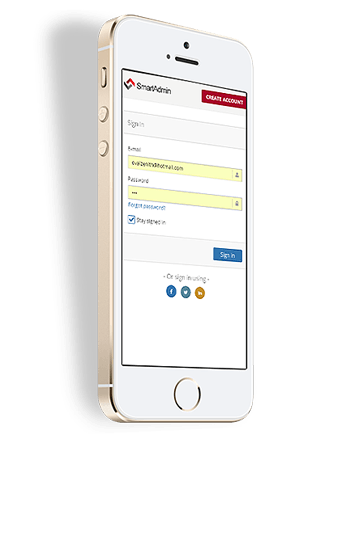
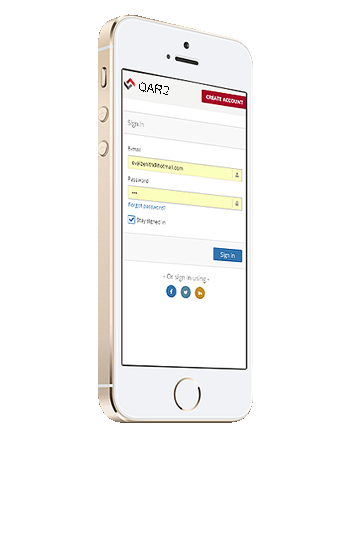
1/13
Images Swapped Qar2

Changed region(s): [[0.1153, 0.0298, 0.317, 0.7747], [0.3746, 0.149, 0.4899, 0.1788]]

diff --git a/index.html b/index.html
@@ -7,7 +7,7 @@
 		<meta name="description" content="">
 		<meta name="author" content="">
 
-		<title>QARTwo Landing</title>
+		<title>QAR2 Landing</title>
 
 		<!-- #Bootstrap Core CSS -->
 		<link type="text/css" href="css/bootstrap.min.css" rel="stylesheet">
@@ -22,7 +22,7 @@
 		<link type="text/css" href="css/nivo-lightbox-theme/default/default.css" rel="stylesheet">
 		<link type="text/css" href="css/animate.css" rel="stylesheet">
 
-		<!-- #QARTwo LANDING CSS -->
+		<!-- #QAR2 LANDING CSS -->
 		<link type="text/css" href="css/main.css" rel="stylesheet">
 		<link type="text/css" href="color/default.css" rel="stylesheet">
 
@@ -191,7 +191,7 @@
 									data-splitout="none"
 									data-elementdelay="0.1"
 									data-endelementdelay="0.1"
-									style="z-index: 5; max-width: auto; max-height: auto; white-space: nowrap;">Better!
+									style="z-index: 5; max-width: auto; max-height: auto; white-space: nowrap;">Anytime!
 								</div>
 
 								<!-- LAYER NR. 5 -->
@@ -218,7 +218,7 @@
 									data-splitout="none"
 									data-elementdelay="0.1"
 									data-endelementdelay="0.1"
-									style="z-index: 7; max-width: auto; max-height: auto; white-space: nowrap;">Now
+									style="z-index: 7; max-width: auto; max-height: auto; white-space: nowrap;">Optimize
 								</div>
 
 								<!-- LAYER NR. 7 -->
@@ -233,7 +233,7 @@
 									data-splitout="none"
 									data-elementdelay="0.1"
 									data-endelementdelay="0.1"
-									style="z-index: 8; max-width: auto; max-height: auto; white-space: nowrap;">Even
+									style="z-index: 8; max-width: auto; max-height: auto; white-space: nowrap;">Anywhere
 								</div>
 
 								<!-- LAYER NR. 8 -->
@@ -366,7 +366,7 @@
 									data-elementdelay="0.1"
 									data-endelementdelay="0.1"
 									data-endspeed="300"
-									style="z-index: 3; max-width: auto; max-height: auto; white-space: nowrap;">Effect
+									style="z-index: 3; max-width: auto; max-height: auto; white-space: nowrap;">FRAUD
 								</div>
 
 								<!-- LAYER NR. 3 -->
@@ -381,7 +381,7 @@
 									data-elementdelay="0.1"
 									data-endelementdelay="0.1"
 									data-endspeed="300"
-									style="z-index: 4; max-width: auto; max-height: auto; white-space: nowrap;">Rendering
+									style="z-index: 4; max-width: auto; max-height: auto; white-space: nowrap;">Eliminate
 								</div>
 
 								<!-- LAYER NR. 4 -->
@@ -396,7 +396,7 @@
 									data-elementdelay="0.1"
 									data-endelementdelay="0.1"
 									data-endspeed="300"
-									style="z-index: 5; max-width: auto; max-height: auto; white-space: nowrap;">Improved!
+									style="z-index: 5; max-width: auto; max-height: auto; white-space: nowrap;">Completely!
 								</div>
 
 
@@ -413,7 +413,7 @@
 								data-endelementdelay="0.1"
 								data-endspeed="300"
 								style="z-index: 6; max-width: auto; max-height: auto; white-space: nowrap;">
-									FASTER
+									Seemless Set-Up
 								</div>
 
 								<!-- LAYER NR. 6 -->
@@ -460,7 +460,7 @@
 								data-endelementdelay="0.1"
 								data-endspeed="300"
 								style="z-index: 9; max-width: auto; max-height: auto; white-space: nowrap;">
-									SMOOTHER
+									Immediate Results
 								</div>
 
 								<!-- LAYER NR. 9 -->
@@ -507,7 +507,7 @@
 								data-endelementdelay="0.1"
 								data-endspeed="300"
 								style="z-index: 12; max-width: auto; max-height: auto; white-space: nowrap;">
-									EASY TO USE
+									High Quality Reporting
 								</div>
 
 								<!-- LAYER NR. 12 -->
@@ -677,7 +677,7 @@
 							<div class="section-heading">
 								<h2>Our Deals</h2>
 								<p>
-									Lorem ipsum dolor sit amet, no nisl mentitum recusabo per, vim at blandit qualisque dissentiunt. Diam efficiantur conclusionemque ut has
+									Multiple pricing levels for every situation.  From a garage-business to Fortune 500, we have solutions for everyone.
 								</p>
 							</div>
 
@@ -921,7 +921,7 @@
 							<div class="section-heading">
 								<h2>The Power of QAR2</h2>
 								<p>
-									Lorem ipsum dolor sit amet, no nisl mentitum recusabo per, vim at blandit qualisque dissentiunt. Diam efficiantur conclusionemque ut has
+									Leading experts have joined to create an industry standard in fraud-busting technology.  Using machine learning allows QAR2 to identify and cancel out any fraud before it happens.  Our optimization performance tools go beyond the AdWords UI and allow for peace-of-mind when launching lead based campaigns on the Google Display Network.
 								</p>
 							</div>
 
@@ -938,9 +938,9 @@
 								<i class="fa fa-code fa-3x"></i>
 							</div>
 							<div class="service-desc">
-								<h5>Localization</h5>
+								<h5>SaaS</h5>
 								<p>
-									Vestibulum tincidunt enim in pharetra malesuada. Duis semper magna metus electram accommodare.
+									Never worry about implementing code on client websites.  Our service seemlessly blends into your accounts after a single button click.
 								</p>
 							</div>
 						</div>
@@ -955,7 +955,7 @@
 							<div class="service-desc">
 								<h5>Compact</h5>
 								<p>
-									Vestibulum tincidunt enim in pharetra malesuada. Duis semper magna metus electram accommodare.
+									With controls that start basic and scale with the most advanced accounts, you'll have more time to spend on strategy rather than minutia.
 								</p>
 							</div>
 						</div>
@@ -968,9 +968,9 @@
 								<i class="fa fa-cog fa-3x"></i>
 							</div>
 							<div class="service-desc">
-								<h5>State of the Art</h5>
+								<h5>Machine Learning</h5>
 								<p>
-									Vestibulum tincidunt enim in pharetra malesuada. Duis semper magna metus electram accommodare.
+									Ad pirates are constantly devising new ways of siphoning off your budget.  Instead of relying on the slow reaction of humans, our software is able to teach itself in real time how to identify theft.
 								</p>
 							</div>
 						</div>
@@ -983,9 +983,9 @@
 								<i class="fa fa-rocket fa-3x"></i>
 							</div>
 							<div class="service-desc">
-								<h5>Cloud System</h5>
+								<h5>Cutting Edge</h5>
 								<p>
-									Vestibulum tincidunt enim in pharetra malesuada. Duis semper magna metus electram accommodare.
+									We don't waste time with features you'll never use.  We focus all our efforts on being the leader in the fight against ad THEFT.
 								</p>
 							</div>
 						</div>
@@ -1004,9 +1004,9 @@
 						<div class="col-lg-8 col-lg-offset-2">
 
 							<div class="section-heading">
-								<h2>Screenshots</h2>
+								<h2>Feature Filled Interface</h2>
 								<p>
-									Lorem ipsum dolor sit amet, no nisl mentitum recusabo per, vim at blandit qualisque dissentiunt. Diam efficiantur conclusionemque ut has
+									Dynamic reporting so advanced you may use it for everything.  Schedule campaign launches, add notes, and delegate tasks.
 								</p>
 							</div>
 
@@ -1062,7 +1062,7 @@
 							<div class="section-heading">
 								<h2>Updates</h2>
 								<p>
-									Lorem ipsum dolor sit amet, no nisl mentitum recusabo per, vim at blandit qualisque dissentiunt. Diam efficiantur conclusionemque ut has
+									QAR2 grows with every dollar we protect.  Follow our journey here.
 								</p>
 							</div>
 
@@ -1085,8 +1085,8 @@
 						</div>
 						
 						<div class="timeline-label">
-							<h2><a href="#">QARTwo:</a> <span>Patch was released today</span></h2>
-							<p>Tolerably earnestly middleton extremely distrusts she boy now not. Add and offered prepare how cordial two promise. Greatly who affixed suppose but enquire compact prepare all put. Added forth chief trees but rooms think may.</p>
+							<h2><a href="#">QAR2:</a> <span>Patch was released today</span></h2>
+							<p>We are now able to block mobile fraud as well.  With 55% of impressions on mobile in 2016, now is the right time to expand.</p>
 						</div>
 					</div>
 					
@@ -1096,15 +1096,15 @@
 				<article class="timeline-entry left-aligned">
 					
 					<div class="timeline-entry-inner">
-						<time class="timeline-time" datetime="2014-01-10T03:45"><span>03:45 AM</span> <span>4 weeks ago</span></time>
+						<time class="timeline-time" datetime="2014-01-10T03:45"><span>09:45 AM</span> <span>4 weeks ago</span></time>
 						
 						<div class="timeline-icon bg-secondary">
 							<i class="entypo-suitcase"></i>
 						</div>
 						
 						<div class="timeline-label">
-							<h2><a href="#">QARTwo goes public!</a></h2>
-							<p>Yahoo buys a share in <strong>QARTwo</strong></p>
+							<h2><a href="#">QAR2 goes public!</a></h2>
+							<p> <strong></strong></p>
 						</div>
 					</div>
 					
@@ -1114,14 +1114,14 @@
 				<article class="timeline-entry">
 					
 					<div class="timeline-entry-inner">
-						<time class="timeline-time" datetime="2014-01-09T13:22"><span>03:45 AM</span> <span>3 months ago</span></time>
+						<time class="timeline-time" datetime="2014-01-09T13:22"><span>03:00 PM</span> <span>3 months ago</span></time>
 						
 						<div class="timeline-icon bg-info">
 							<i class="entypo-location"></i>
 						</div>
 						
 						<div class="timeline-label">
-							<h2><a href="#">QARTwo Convention</a> <span>checked in at</span> <a href="#">Laborator</a></h2>
+							<h2><a href="#">QAR2 Convention</a> <span>checked in at</span> <a href="#">Laborator</a></h2>
 							
 							<blockquote>Place was booked till 3am!</blockquote>
 							
@@ -1137,7 +1137,7 @@
 				<article class="timeline-entry left-aligned">
 					
 					<div class="timeline-entry-inner">
-						<time class="timeline-time" datetime="2014-01-10T03:45"><span>03:45 AM</span> <span>8 months ago</span></time>
+						<time class="timeline-time" datetime="2014-01-10T03:45"><span>01:30 PM</span> <span>8 months ago</span></time>
 						
 						<div class="timeline-icon bg-warning">
 							<i class="entypo-camera"></i>
@@ -1146,7 +1146,7 @@
 						<div class="timeline-label">
 							<h2><a href="#">We have lift off!</a></h2>
 							
-							<blockquote>QARTwo Launched with grace and beauty</blockquote>
+							<blockquote>QAR2 Launched with grace and beauty</blockquote>
 
 						</div>
 					</div>
@@ -1190,19 +1190,19 @@
 							  <div class="carousel-inner">
 							    <div class="active item">
 							    	<blockquote>
-							    		<p>Lorem ipsum dolor sit amet, consectetur adipisicing elit. Quidem, veritatis nulla eum laudantium totam tempore optio doloremque laboriosam quas.</p>
+							    		<p>I had no idea we were wasting half of our budget on fraud.  No wonder we never had success!</p>
 							    	</blockquote>
 							    	<div class="profile-circle" style="background-color: rgba(0,0,0,.2);"></div>
 							    </div>
 							    <div class="item">
 							    	<blockquote>
-							    		<p>Lorem ipsum dolor sit amet, eaque molestias odio aut eius animi. Impedit temporibus nisi accusamus.</p>
+							    		<p>Our display CPAs have been cut in half, volume is up, and we are fully supplied with inbound leads.</p>
 							    	</blockquote>
 							    	<div class="profile-circle" style="background-color: rgba(77,5,51,.2);"></div>
 							    </div>
 							    <div class="item">
 							    	<blockquote>
-							    		<p>Consectetur adipisicing elit. Quidem, veritatis  aut eius animi. Impedit temporibus nisi accusamus.</p>
+							    		<p>I'll never launch a programmatic campaign without QAR2 again.</p>
 							    	</blockquote>
 							    	<div class="profile-circle" style="background-color: rgba(145,169,216,.2);"></div>
 							    </div>
@@ -1225,7 +1225,7 @@
 							<div class="section-heading">
 								<h2>Get in touch</h2>
 								<p>
-									Lorem ipsum dolor sit amet, no nisl mentitum recusabo per, vim at blandit qualisque dissentiunt. Diam efficiantur conclusionemque ut has
+									We'd love to hear from you!  Tell us what we're doing wrong, right, or how bad our fonts are.
 								</p>
 							</div>
 
@@ -1280,11 +1280,11 @@
 						<div class="widget-contact row">
 							<div class="col-lg-6">
 								<address>
-									<strong>QARTwo Ltd.</strong>
+									<strong>QAR2 Ltd.</strong>
 									<br>
 									Big Villa 334 Awesome, Beautiful Suite 1200
 									<br>
-									San Francisco, CA 94107
+									Austin, TX 78703
 									<br>
 									<abbr title="Phone">P:</abbr> (123) 456-7890
 								</address>
@@ -1294,9 +1294,9 @@
 								<address>
 									<strong>Email</strong>
 									<br>
-									<a href="mailto:#">email.name@example.com</a>
+									<a href="mailto:#">Mike@QAR2.com</a>
 									<br />
-									<a href="mailto:#">name.name@example.com</a>
+									<a href="mailto:#">admin@QAR2.com</a>
 								</address>
 
 							</div>
@@ -1317,7 +1317,7 @@
 					Thank you for buying this template :)
 				</p>
 				<!-- Provides extra visual weight and identifies the primary action in a set of buttons -->
-				<a href="https://bootstraphunter.com" class="btn btn-default btn-lg purchase">Purchase QARTwo</a>
+				<a href="" class="btn btn-default btn-lg purchase">Register Today</a>
 			</div>
 		</div>
 		<!-- /#BOTTOM CONTENT -->
@@ -1331,12 +1331,12 @@
 						<div class="col-md-3 col-sm-6 col-xs-12">
 							<a href="#" class="footer-logo">About Us</a>
 							<p>
-								Fusce gravida tortor felis, ac dictum risus sagittis id.
+								We are a SaaS company serving digital marketers.
 							</p>
 							<p>
-								Donec volutpat, mi vel egestas eleifend, dolor arcu iaculis nunc. Fusce gravida tortor felis, ac dictum risus sagittis id. Morbi posuere justo eleifend libero ultricies ultrices.
+								Based in Austin, TX we carry the Alamo mindset into our fight against ad pirates. 
 							</p>
-							<a href="#" class="learn-more">learn more</a>
+							<a href="#" class="learn-more">Join the Fight</a>
 						</div>
 						<div class="col-md-3 col-sm-6 col-xs-12">
 							<h3>Recent Tweets</h3>
@@ -1385,7 +1385,7 @@
 										<a href="#">Landing</a>
 									</li>
 									<li>
-										<a href="#">QARTwo</a>
+										<a href="#">QAR2</a>
 									</li>
 									<li>
 										<a href="#">.Net</a>
@@ -1412,7 +1412,7 @@
 					<div class="row">
 						<div class="col-md-12 col-sm-12 col-xs-12 text-center">
 							<p>
-								Copyright © 2015 - Your Company Name
+								Copyright © 2017 - QAR2
 							</p>
 						</div>
 					</div>
